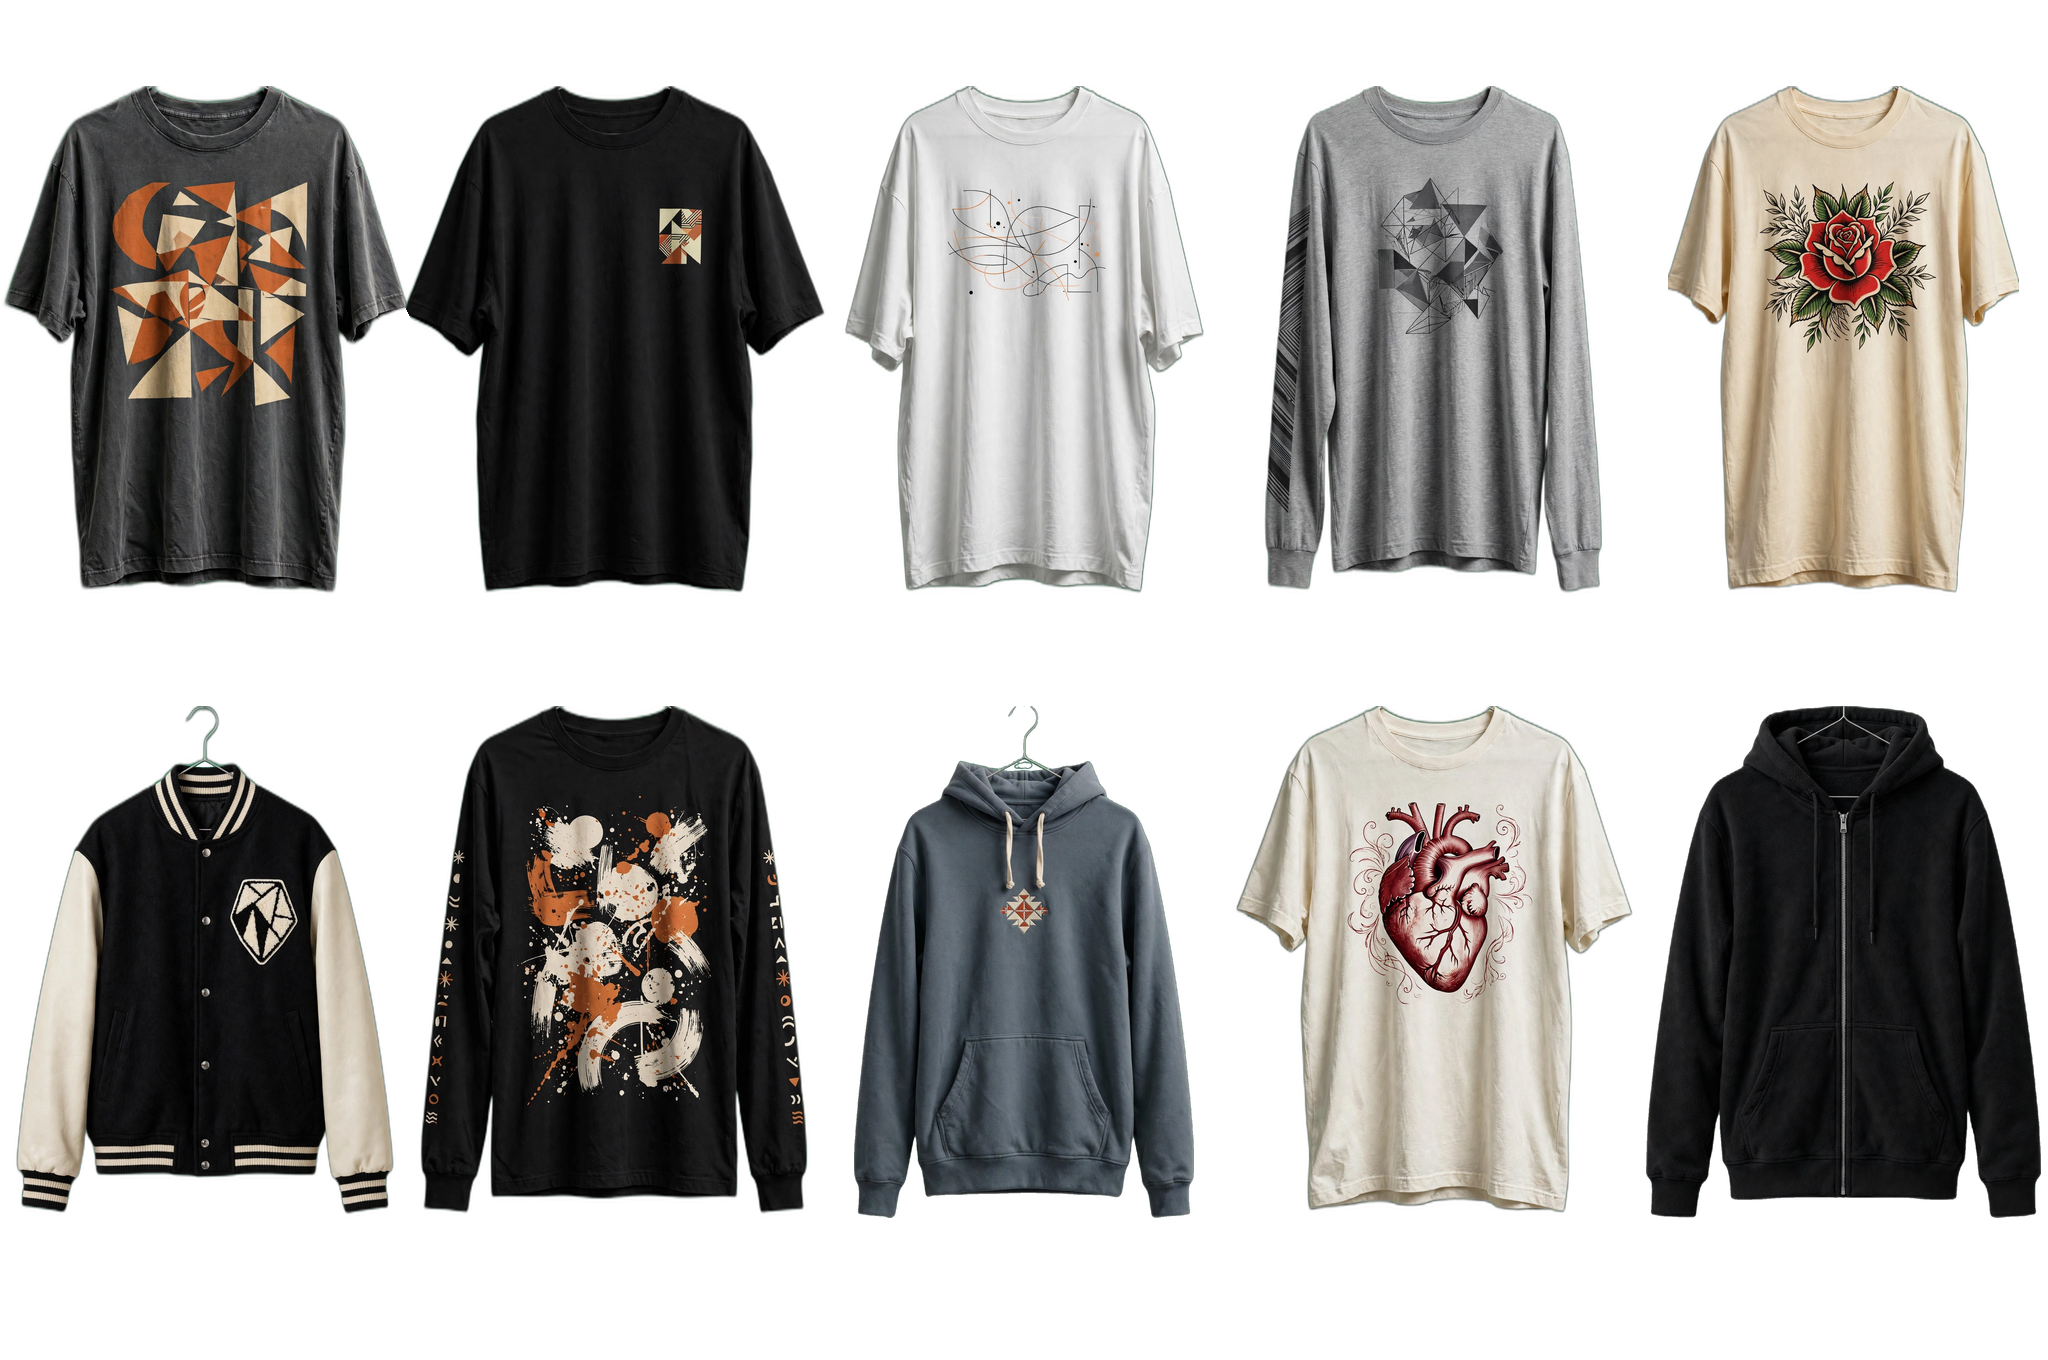
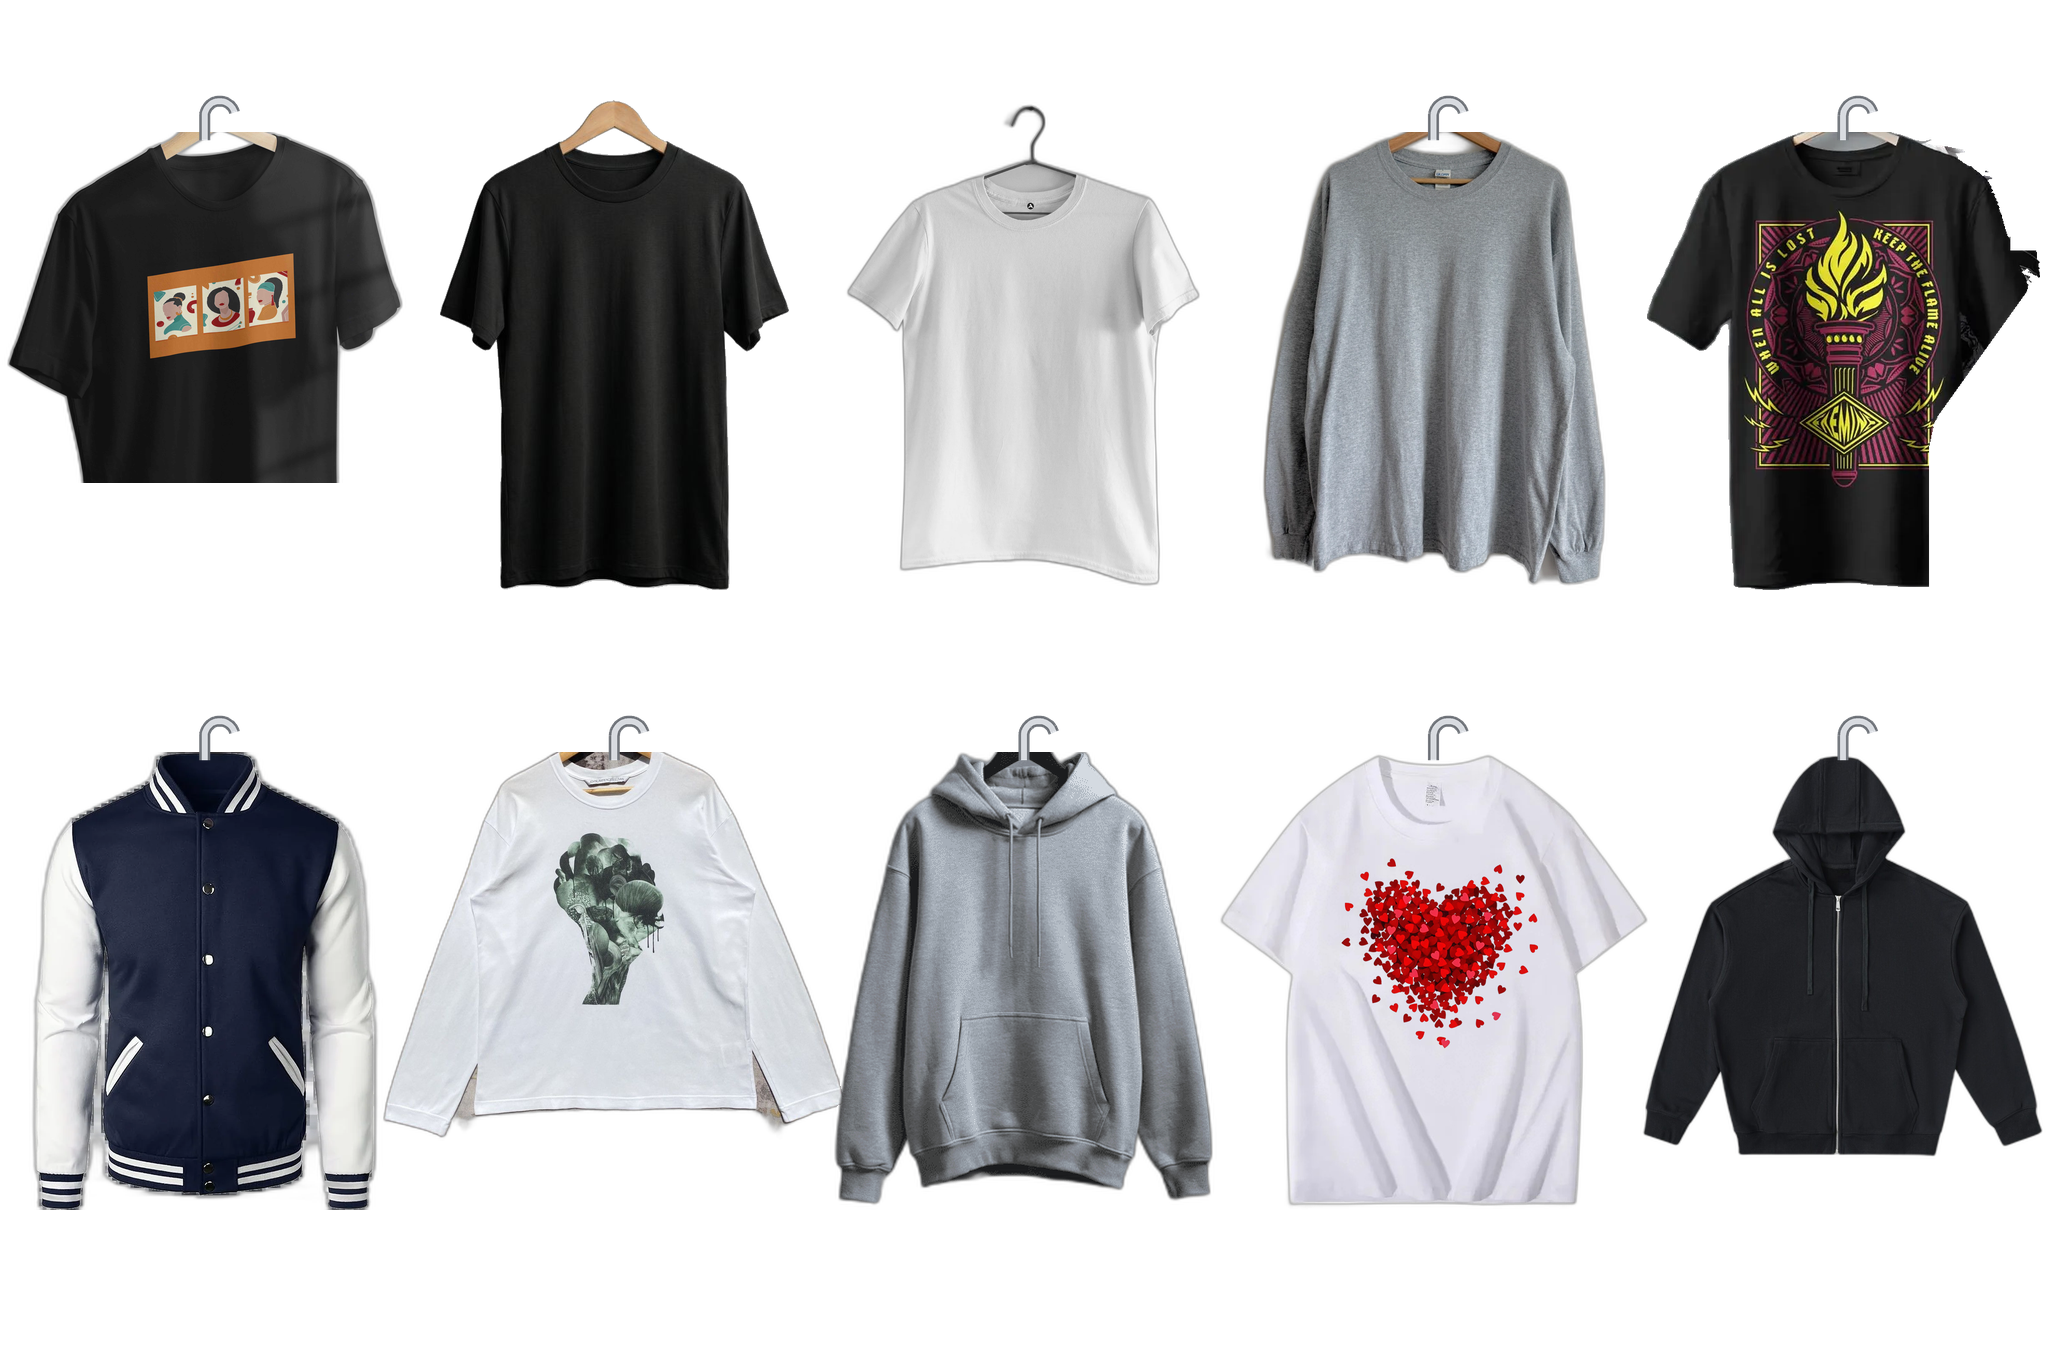
Fix visual defects: real photo garments, re-traced polygons, caption/letterbox/brightness fixes
- Replace AI-generated garments with real product photos sourced from the
  web, cut out with rembg and recomposed into the 2048x1360 sheet; garments
  are fuller (349-470px wide) and hooks now straddle the rail band
- Re-trace all 10 clip polygons from the new garments' actual alpha
  silhouettes (25-57 points each)
- Hide the hero caption completely while the detail view is open
  (body.open #cap beats #cap.on on specificity)
- Apply the artboard radial gradient to the body background so the
  letterbox edges blend on desktop and portrait phones
- Raise resting garment brightness .82 -> .88 so black garments read
  against the dark background

diff --git a/docs/index.html b/docs/index.html
@@ -17,6 +17,7 @@
 *{box-sizing:border-box;margin:0;padding:0}
 html,body{height:100%;overflow:hidden;background:var(--bg)}
 body{
+  background:radial-gradient(ellipse 70% 55% at 50% 40%,#18181a,#0b0b0c);
   color:var(--ink);
   font-family:"Inter","Helvetica Neue",Arial,sans-serif;
   -webkit-font-smoothing:antialiased;
@@ -70,7 +71,7 @@ body.open .dimmer{opacity:0;pointer-events:none}
   position:absolute;inset:0;background-repeat:no-repeat;
   transform-origin:50% 4%;
   transform:rotateY(-74deg);
-  filter:brightness(.82) drop-shadow(0 18px 18px rgba(0,0,0,.5));
+  filter:brightness(.88) drop-shadow(0 18px 18px rgba(0,0,0,.5));
   transition:transform .75s cubic-bezier(.2,.8,.2,1),filter .75s;
 }
 .g.face i{
@@ -84,6 +85,7 @@ body.open .dimmer{opacity:0;pointer-events:none}
   transition:left .75s cubic-bezier(.2,.8,.2,1),opacity .35s;
 }
 #cap.on{opacity:1}
+body.open #cap{opacity:0}
 #cap b{display:block;color:var(--ink);font-weight:500;margin-bottom:4px}
 #avail{position:absolute;left:50%;top:790px;transform:translateX(-50%)}
 #band{
@@ -184,16 +186,16 @@ var PRODUCTS = [
 ];
 
 var POLY = [
-'polygon(52.98% 2.08%,51.41% 3.96%,51.81% 3.96%,52.98% 2.45%,55.34% 2.45%,56.12% 3.21%,56.12% 5.47%,54.55% 7.17%,54.36% 9.25%,51.61% 10.38%,47.88% 15.09%,45.92% 16.60%,44.74% 16.60%,31.20% 23.40%,29.24% 25.28%,25.51% 30.94%,14.13% 53.58%,25.51% 60.19%,28.85% 61.70%,28.26% 82.45%,28.65% 96.79%,45.33% 96.79%,49.25% 96.42%,52.00% 95.66%,56.51% 95.66%,62.60% 96.79%,79.47% 96.79%,80.06% 90.38%,79.87% 61.89%,94.39% 53.77%,83.99% 32.08%,79.47% 24.72%,75.94% 22.26%,64.76% 16.79%,63.58% 16.79%,60.24% 13.96%,59.26% 12.08%,57.50% 10.19%,54.95% 9.25%,54.95% 7.17%,56.71% 5.09%,56.71% 3.58%,55.14% 1.89%)',
-'polygon(53.85% 1.89%,52.47% 2.83%,51.88% 3.96%,52.28% 3.96%,53.45% 2.45%,55.61% 2.45%,56.59% 3.58%,56.59% 5.28%,54.83% 7.17%,54.83% 9.25%,52.47% 10.00%,50.90% 11.51%,49.14% 14.34%,46.39% 16.60%,45.41% 16.60%,35.60% 21.51%,30.89% 24.53%,26.77% 31.13%,26.37% 32.64%,21.86% 41.32%,15.97% 54.34%,24.80% 59.81%,29.51% 62.08%,28.53% 86.23%,28.53% 94.91%,28.92% 96.79%,44.62% 96.79%,48.55% 96.42%,52.28% 95.47%,57.77% 95.47%,60.32% 96.23%,64.05% 96.60%,80.73% 96.79%,80.93% 71.51%,80.53% 62.08%,93.88% 54.53%,93.88% 53.96%,92.90% 52.64%,92.90% 51.13%,83.87% 32.08%,79.55% 24.72%,75.63% 21.89%,71.11% 20.00%,64.84% 16.60%,63.85% 16.60%,61.89% 15.28%,58.16% 10.38%,55.22% 9.25%,55.22% 7.55%,56.79% 5.66%,57.18% 3.77%,55.81% 2.08%)',
-'polygon(49.61% 1.89%,48.43% 2.45%,47.45% 3.96%,47.84% 3.96%,49.02% 2.45%,51.18% 2.45%,52.16% 3.40%,52.16% 5.28%,50.59% 6.98%,50.39% 9.25%,47.65% 10.38%,46.27% 11.70%,44.31% 14.72%,42.15% 16.42%,40.78% 16.60%,30.57% 21.70%,26.45% 24.53%,22.33% 31.32%,12.52% 52.08%,13.70% 54.53%,25.67% 61.51%,24.69% 86.79%,24.69% 95.28%,25.08% 96.79%,32.34% 96.42%,42.35% 96.60%,47.25% 95.85%,51.57% 95.85%,56.08% 96.60%,67.66% 96.42%,75.71% 96.79%,76.10% 96.42%,76.30% 83.21%,75.31% 61.51%,89.44% 53.77%,89.64% 53.21%,87.68% 49.81%,79.24% 31.70%,75.12% 24.91%,71.39% 22.08%,58.24% 15.85%,56.48% 14.15%,53.73% 10.38%,50.98% 9.25%,50.98% 7.17%,52.55% 5.47%,52.75% 3.58%,51.77% 2.26%)',
-'polygon(46.35% 1.89%,45.17% 2.45%,44.19% 3.96%,46.15% 2.26%,47.72% 2.26%,49.10% 3.58%,49.10% 5.09%,47.33% 7.17%,47.14% 9.25%,44.00% 10.75%,41.64% 14.34%,38.70% 16.79%,37.72% 16.79%,25.16% 23.21%,23.00% 25.28%,20.25% 30.75%,15.15% 48.87%,10.24% 71.70%,8.48% 83.58%,8.28% 89.25%,8.87% 91.13%,8.48% 96.23%,16.13% 97.92%,17.11% 97.74%,18.49% 92.83%,19.47% 91.70%,20.45% 89.25%,22.21% 89.06%,22.41% 96.04%,23.00% 96.98%,39.87% 96.60%,44.98% 95.47%,47.14% 95.47%,51.84% 96.42%,61.07% 96.23%,71.86% 96.98%,72.25% 96.79%,72.45% 90.38%,72.84% 90.00%,74.61% 90.19%,76.18% 93.21%,77.55% 97.92%,85.60% 96.79%,85.60% 91.51%,86.19% 90.57%,86.19% 84.53%,84.81% 73.21%,82.06% 58.68%,79.12% 46.04%,75.39% 32.45%,72.65% 26.23%,71.08% 24.15%,57.34% 16.79%,55.97% 16.60%,53.22% 14.15%,51.65% 11.51%,50.47% 10.38%,47.72% 9.25%,47.72% 7.17%,49.49% 5.09%,49.49% 3.58%,48.12% 2.08%)',
-'polygon(45.25% 1.89%,43.29% 3.96%,43.88% 3.96%,45.05% 2.45%,47.21% 2.45%,48.19% 3.40%,48.19% 5.09%,46.43% 7.36%,46.43% 9.25%,43.88% 10.19%,42.31% 11.70%,40.93% 13.96%,38.19% 16.42%,36.81% 16.60%,24.25% 22.83%,21.70% 24.91%,16.21% 34.15%,6.59% 54.15%,21.31% 62.26%,20.72% 80.94%,20.92% 96.79%,39.76% 96.79%,44.66% 96.42%,72.14% 96.79%,72.53% 96.42%,72.53% 76.23%,71.94% 62.26%,79.40% 58.49%,86.07% 54.15%,75.67% 32.08%,71.35% 24.91%,67.03% 21.89%,61.54% 19.43%,59.18% 17.92%,56.63% 16.79%,55.65% 16.79%,53.69% 15.47%,49.96% 10.57%,47.02% 9.25%,47.02% 7.17%,48.39% 5.66%,48.78% 3.77%,47.41% 2.08%)',
-'polygon(52.39% 1.70%,50.43% 3.77%,52.20% 2.26%,54.55% 2.26%,55.53% 3.40%,55.53% 4.91%,53.57% 7.17%,53.57% 9.43%,50.63% 10.57%,47.68% 14.34%,46.31% 14.53%,42.78% 17.74%,41.60% 17.92%,29.24% 24.53%,27.08% 26.60%,24.92% 29.81%,22.17% 37.55%,19.23% 47.92%,15.70% 65.85%,14.72% 76.23%,14.52% 84.72%,15.11% 90.38%,16.68% 92.26%,17.07% 93.40%,17.07% 97.74%,17.66% 98.30%,20.02% 98.68%,25.12% 98.68%,25.71% 98.11%,26.10% 93.40%,27.86% 90.94%,28.45% 88.30%,30.02% 88.30%,30.42% 88.68%,30.61% 92.83%,31.40% 93.58%,60.44% 93.96%,63.19% 93.58%,75.16% 93.77%,75.94% 93.02%,76.33% 88.49%,78.30% 88.30%,78.89% 90.94%,80.85% 93.58%,81.44% 98.30%,82.03% 98.87%,89.29% 98.49%,90.07% 97.92%,90.07% 93.21%,91.84% 90.75%,92.03% 78.49%,90.66% 63.58%,87.91% 49.06%,83.40% 32.83%,81.44% 28.49%,78.10% 24.72%,65.74% 17.92%,64.36% 17.55%,61.03% 14.53%,59.65% 14.34%,56.51% 10.19%,53.96% 9.25%,53.96% 7.36%,55.73% 5.28%,55.93% 3.40%,54.55% 1.89%)',
-'polygon(53.85% 1.13%,52.47% 2.08%,51.88% 3.21%,52.28% 3.21%,53.45% 1.70%,55.61% 1.70%,56.59% 2.64%,56.59% 4.34%,54.83% 6.42%,54.83% 8.30%,51.88% 9.43%,48.74% 13.58%,46.39% 15.47%,45.41% 15.47%,34.22% 20.94%,30.49% 23.21%,28.73% 25.28%,26.18% 31.13%,24.02% 37.74%,22.45% 44.53%,19.31% 63.77%,18.33% 75.66%,18.13% 86.42%,18.72% 91.51%,19.70% 93.21%,19.51% 97.55%,20.88% 98.30%,27.35% 98.87%,28.34% 94.34%,30.10% 94.15%,30.69% 95.85%,30.69% 97.92%,31.28% 98.30%,48.16% 97.92%,51.10% 97.17%,55.22% 97.17%,57.57% 97.92%,65.82% 97.74%,77.79% 98.30%,78.18% 94.72%,79.95% 94.53%,81.12% 98.87%,85.83% 98.68%,88.58% 98.11%,88.78% 93.21%,89.56% 91.89%,90.15% 87.17%,90.15% 79.81%,89.36% 68.11%,86.42% 45.85%,82.69% 30.19%,80.53% 25.28%,78.77% 23.21%,65.03% 15.85%,63.27% 15.47%,61.11% 13.58%,58.16% 9.43%,55.22% 8.30%,55.22% 6.60%,56.99% 4.34%,56.99% 2.64%,55.81% 1.32%)',
-'polygon(48.82% 2.08%,47.06% 3.96%,48.82% 2.45%,50.78% 2.45%,51.96% 3.40%,51.96% 5.47%,50.20% 7.36%,50.20% 9.43%,47.84% 10.38%,41.37% 10.75%,34.50% 12.26%,33.52% 13.21%,33.12% 15.47%,30.57% 20.94%,30.57% 22.26%,25.27% 25.66%,23.70% 27.92%,21.55% 32.83%,16.44% 48.49%,12.32% 68.49%,11.15% 78.11%,10.75% 85.28%,11.34% 90.94%,12.52% 92.45%,12.13% 97.55%,20.37% 99.25%,20.96% 98.68%,22.14% 94.15%,23.70% 92.83%,24.29% 91.70%,25.86% 91.70%,27.04% 93.96%,27.83% 98.11%,34.30% 97.17%,46.08% 96.23%,57.85% 96.42%,72.37% 98.11%,74.14% 92.08%,74.53% 91.70%,76.10% 91.70%,76.69% 93.02%,78.45% 94.91%,79.83% 99.25%,87.68% 98.11%,88.27% 97.74%,87.87% 92.45%,89.05% 91.13%,89.44% 88.11%,89.44% 81.70%,88.66% 73.21%,87.28% 63.96%,83.95% 48.68%,79.24% 33.21%,76.69% 27.92%,74.92% 25.47%,69.62% 22.08%,69.62% 20.75%,67.27% 15.66%,66.68% 13.21%,65.31% 12.08%,62.56% 11.32%,52.94% 10.38%,50.78% 9.62%,50.59% 7.36%,52.16% 5.85%,52.55% 3.77%,52.35% 3.21%,50.59% 1.89%)',
-'polygon(45.96% 1.32%,44.00% 3.02%,44.19% 3.40%,45.96% 1.70%,47.53% 1.70%,48.90% 2.83%,48.90% 4.53%,47.14% 6.42%,46.94% 8.68%,44.00% 9.81%,41.64% 13.21%,38.70% 15.85%,37.32% 16.04%,23.98% 22.64%,21.62% 24.72%,17.90% 30.75%,7.30% 51.70%,21.62% 59.62%,20.84% 75.09%,21.04% 98.87%,33.59% 98.68%,38.50% 99.25%,44.39% 98.30%,50.08% 98.30%,53.61% 99.06%,62.64% 98.68%,72.84% 99.06%,73.23% 98.87%,73.63% 88.68%,73.04% 60.00%,86.77% 52.26%,86.77% 51.70%,76.77% 31.51%,73.04% 25.28%,69.90% 22.45%,57.14% 16.04%,55.97% 16.04%,53.22% 13.77%,50.47% 9.81%,47.53% 8.68%,47.53% 6.42%,49.10% 4.91%,49.49% 3.40%,48.12% 1.51%,46.94% 1.13%)',
-'polygon(45.25% 1.51%,43.29% 3.21%,43.49% 3.58%,45.25% 1.89%,47.02% 1.89%,48.19% 3.02%,48.19% 4.91%,46.43% 6.79%,46.43% 9.06%,43.29% 10.38%,34.46% 11.13%,29.75% 12.26%,28.57% 13.77%,28.18% 15.85%,25.63% 20.94%,25.63% 22.26%,20.13% 25.85%,16.60% 32.64%,13.27% 43.40%,10.32% 55.47%,7.18% 73.77%,6.59% 79.81%,6.59% 87.36%,7.18% 91.13%,8.56% 92.64%,8.36% 97.55%,8.75% 98.11%,16.60% 98.87%,17.97% 93.40%,19.15% 92.45%,19.94% 90.75%,21.70% 90.94%,22.88% 96.98%,23.47% 97.36%,35.44% 96.23%,45.45% 96.42%,46.04% 98.11%,46.62% 97.92%,46.62% 96.60%,47.41% 96.23%,56.44% 96.23%,69.00% 97.36%,69.58% 96.60%,70.57% 91.13%,72.33% 90.94%,73.31% 92.83%,74.29% 93.58%,75.86% 99.06%,83.32% 98.30%,83.71% 97.92%,83.71% 92.83%,84.89% 91.51%,85.48% 88.87%,85.68% 81.13%,85.09% 72.83%,82.34% 55.66%,79.20% 42.45%,76.06% 32.26%,72.72% 25.85%,67.43% 22.26%,67.43% 20.94%,66.05% 18.87%,64.29% 13.02%,61.73% 11.70%,56.83% 10.94%,50.35% 10.57%,48.98% 9.62%,47.02% 9.25%,46.82% 6.98%,48.59% 5.09%,48.78% 3.21%,47.21% 1.51%)'
+'polygon(52.00% 2.83%,50.43% 3.40%,48.86% 5.09%,48.47% 9.62%,43.56% 10.19%,37.68% 13.02%,24.92% 20.38%,22.76% 22.08%,20.21% 25.47%,10.99% 53.77%,22.17% 60.00%,25.31% 75.85%,76.53% 75.85%,76.73% 51.51%,79.47% 50.94%,82.61% 49.25%,83.99% 46.98%,87.32% 44.72%,88.89% 42.45%,85.36% 31.13%,83.59% 23.21%,81.44% 18.68%,78.30% 15.85%,75.16% 14.15%,64.95% 10.19%,51.41% 9.62%,51.41% 6.79%,57.10% 5.66%,56.12% 3.96%,53.77% 2.83%)',
+'polygon(48.08% 3.96%,45.72% 5.09%,40.42% 10.75%,27.28% 16.98%,23.74% 19.81%,15.31% 43.58%,15.31% 44.15%,21.19% 46.98%,21.59% 49.25%,22.96% 50.38%,26.49% 51.51%,27.28% 60.57%,27.28% 95.66%,72.61% 95.66%,72.02% 51.51%,76.73% 50.94%,78.89% 48.68%,79.08% 46.42%,84.38% 43.58%,84.38% 43.02%,75.16% 19.25%,72.21% 16.98%,58.87% 10.75%,53.57% 5.09%,51.22% 3.96%)',
+'polygon(48.86% 5.09%,45.92% 7.92%,46.51% 8.49%,52.59% 9.06%,50.82% 11.89%,50.63% 14.72%,32.97% 20.38%,27.86% 22.64%,23.74% 27.17%,14.91% 39.62%,15.50% 40.75%,21.78% 44.72%,23.94% 46.98%,25.71% 47.55%,26.10% 76.42%,25.31% 91.70%,25.51% 92.26%,63.58% 92.83%,71.82% 95.09%,76.14% 95.09%,76.73% 94.53%,76.92% 90.57%,76.14% 69.06%,76.53% 49.25%,77.32% 46.42%,80.26% 43.58%,83.99% 41.32%,84.58% 40.19%,76.73% 24.34%,74.96% 22.08%,52.59% 14.72%,52.39% 12.45%,54.55% 7.92%,54.16% 6.23%,52.79% 5.09%)',
+'polygon(52.00% 2.83%,49.06% 4.53%,48.47% 9.62%,42.39% 10.19%,38.85% 11.32%,29.24% 15.85%,27.47% 18.11%,24.92% 26.04%,22.96% 35.66%,20.02% 44.15%,17.46% 58.87%,16.09% 74.72%,17.46% 89.43%,17.86% 90.00%,24.92% 91.70%,26.49% 92.83%,68.09% 93.40%,68.09% 94.53%,68.88% 95.09%,77.32% 95.09%,82.42% 93.96%,82.81% 92.83%,83.79% 84.34%,83.79% 73.02%,76.33% 19.25%,74.96% 16.98%,73.39% 15.85%,64.17% 11.32%,61.03% 10.19%,51.22% 9.62%,51.22% 6.79%,57.10% 5.66%,56.12% 3.96%,53.57% 2.83%)',
+'polygon(52.00% 2.83%,50.43% 3.40%,48.86% 5.09%,48.47% 9.62%,40.03% 10.19%,38.46% 10.75%,26.69% 15.85%,22.57% 19.25%,11.38% 43.02%,11.58% 45.28%,20.21% 50.38%,27.08% 51.51%,27.47% 85.47%,28.06% 95.09%,29.04% 95.66%,40.62% 95.66%,67.11% 95.09%,67.11% 69.06%,67.90% 65.09%,86.15% 40.19%,87.32% 37.92%,86.73% 37.36%,88.89% 36.79%,88.30% 32.26%,83.20% 31.70%,83.20% 30.00%,78.89% 19.25%,79.08% 18.11%,77.12% 17.55%,78.49% 16.98%,75.75% 16.42%,72.80% 14.72%,72.61% 14.15%,74.18% 13.58%,73.78% 13.02%,66.92% 11.89%,67.50% 11.32%,61.62% 10.19%,51.41% 9.62%,51.41% 6.79%,57.10% 5.66%,56.12% 3.96%,53.77% 2.83%)',
+'polygon(52.00% 2.83%,50.43% 3.40%,48.86% 5.09%,48.47% 9.62%,40.82% 10.19%,39.84% 10.75%,38.46% 14.72%,23.35% 22.08%,20.21% 26.60%,17.66% 36.23%,17.46% 46.42%,16.09% 56.60%,15.89% 85.47%,17.07% 95.66%,82.22% 95.66%,82.61% 91.13%,83.79% 88.30%,83.99% 61.13%,83.79% 55.47%,82.42% 49.81%,81.83% 34.53%,80.65% 29.43%,78.89% 24.91%,76.92% 22.64%,62.21% 15.28%,60.05% 10.75%,59.07% 10.19%,51.41% 9.62%,51.41% 6.79%,57.10% 5.66%,56.12% 3.96%,53.77% 2.83%)',
+'polygon(52.00% 2.83%,50.24% 3.40%,48.67% 5.09%,48.27% 9.62%,37.09% 10.19%,27.86% 15.28%,24.53% 20.94%,12.56% 52.08%,6.67% 69.06%,4.12% 78.68%,4.32% 79.25%,14.72% 82.08%,17.07% 82.08%,17.27% 81.51%,82.42% 80.94%,95.37% 75.85%,88.11% 54.34%,73.39% 20.94%,69.07% 14.15%,66.33% 12.45%,60.83% 10.19%,51.22% 9.62%,51.22% 6.79%,56.91% 5.66%,56.12% 3.96%,53.57% 2.83%)',
+'polygon(52.00% 2.83%,50.43% 3.40%,48.86% 5.09%,48.47% 9.62%,36.89% 10.19%,35.71% 12.45%,31.00% 17.55%,26.10% 21.51%,24.53% 24.34%,22.37% 31.13%,16.29% 57.74%,12.95% 78.68%,12.56% 86.60%,13.74% 89.43%,13.34% 93.96%,15.89% 94.53%,21.78% 94.53%,81.63% 93.96%,86.15% 93.40%,86.73% 92.83%,87.13% 80.94%,85.95% 71.32%,81.63% 48.68%,77.71% 32.26%,75.16% 24.34%,73.00% 20.94%,68.68% 17.55%,63.58% 11.89%,62.99% 10.19%,51.41% 9.62%,51.41% 6.79%,57.10% 5.66%,56.12% 3.96%,53.77% 2.83%)',
+'polygon(52.00% 2.83%,49.06% 4.53%,48.47% 6.23%,48.47% 10.19%,37.68% 10.75%,30.81% 14.72%,24.92% 19.25%,17.46% 27.74%,7.85% 41.32%,8.63% 42.45%,21.59% 52.08%,20.60% 61.13%,20.60% 82.08%,21.39% 95.09%,77.51% 95.09%,78.30% 94.53%,78.49% 92.26%,79.47% 71.89%,79.47% 62.83%,78.30% 52.08%,92.03% 41.32%,77.71% 22.08%,71.82% 16.98%,62.21% 10.75%,51.22% 10.19%,51.22% 6.79%,57.10% 5.66%,56.12% 3.96%,53.57% 2.83%)',
+'polygon(52.00% 2.83%,50.43% 3.40%,48.86% 5.09%,48.47% 10.19%,45.72% 10.75%,42.78% 12.45%,40.62% 14.72%,37.28% 20.38%,35.71% 24.91%,38.85% 29.43%,38.46% 30.00%,29.24% 34.53%,22.96% 39.06%,11.97% 71.32%,10.79% 76.42%,10.79% 82.08%,16.09% 83.77%,29.04% 84.34%,29.24% 85.47%,68.49% 85.47%,68.88% 84.34%,83.40% 83.77%,89.29% 81.51%,88.30% 78.11%,88.30% 75.28%,84.58% 62.83%,74.76% 37.92%,58.87% 29.43%,62.40% 24.34%,60.64% 19.81%,57.50% 14.72%,55.34% 12.45%,51.41% 10.19%,51.41% 6.79%,57.10% 5.66%,56.12% 3.96%,53.77% 2.83%)'
 ];
 
 var hov = -1, open = -1;
